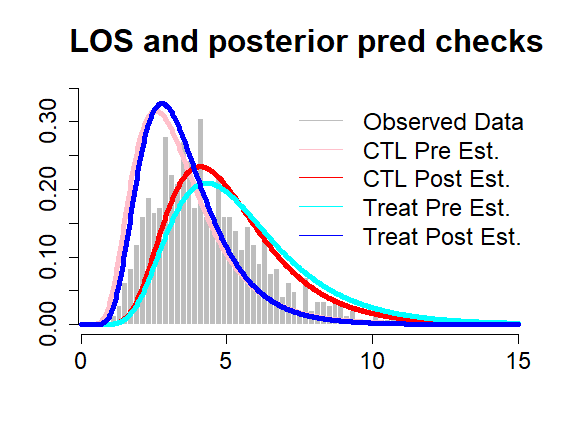
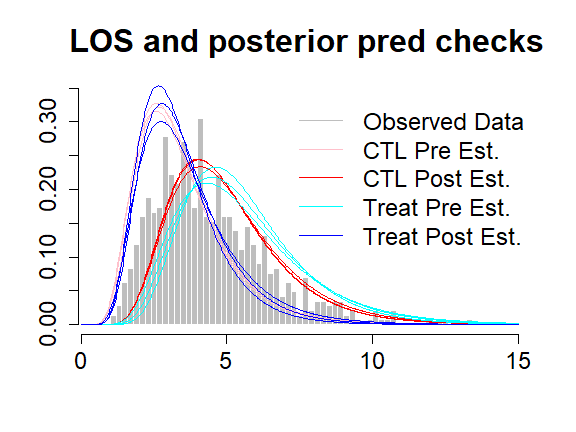
plot.Bayes, removed print(adf) etc, readme, pline=3

Changed region(s): [[0.1562, 0.2106, 0.4375, 0.7824], [0.4062, 0.4514, 0.9062, 0.7824]]

diff --git a/README.md b/README.md
@@ -1122,7 +1122,7 @@ plot(x=d1, y= "is")
 
 <br>
 
-## Version 1.4 mostly has bug fixes and current feature improvements.
+## New Version 1.4 mostly has bug fixes and current feature improvements.
 
 These and other changes included in version 1.4:
 
@@ -1140,9 +1140,9 @@ New additions
 
 Corrected errors
 
-- For the interrupted time-series interpretations, “one-group, multiple
-  intervention period” and “two group, multiple time periods” are
-  correctly described.
+- For the interrupted time-series interpretations, the phrases
+  “one-group, multiple intervention period” and “two group, multiple
+  time periods” are correctly stated with the relevant models.
 
 - The propensity score weights, “ipw”, “nipw”, and “att”, are now
   correct because the code was fixed.
@@ -1387,10 +1387,11 @@ plot(x=bvlos, y="post", parameter="B3DIDSig", bcol="green", compare=0,
 Let’s take a look at the various posterior predictive checks, this will
 give us insight in how the control and treatment groups vary by pre/post
 intervention periods. Note that the grey observed data bars are all data
-and only 1 single line for each parameter is used for clarity.
+and only 1 single line for each parameter is used for clarity in the
+lower zoomed in section.
 
 ``` r
-plot(x=bvlos, y="vary", type="ln", dv="los", breaks=75, pline=1, lwd=5, vlim=c(0, 15),
+plot(x=bvlos, y="vary", type="ln", dv="los", breaks=75, pline=3, lwd=1, vlim=c(0, 15),
      data=hosprog, lcol= c("pink","red", "cyan", "blue"), xlim=c(0.5, 15), ylim=c(0, .35), parameter=parls, main="LOS and posterior pred checks", cex.main=2, cex.legend=1.5, cex.label=1.5,
      cex.axis=1.5, add.legend="topright", legend=c("Observed Data", "CTL Pre Est.", "CTL Post Est.", "Treat Pre Est.", "Treat Post Est."))
 ```
